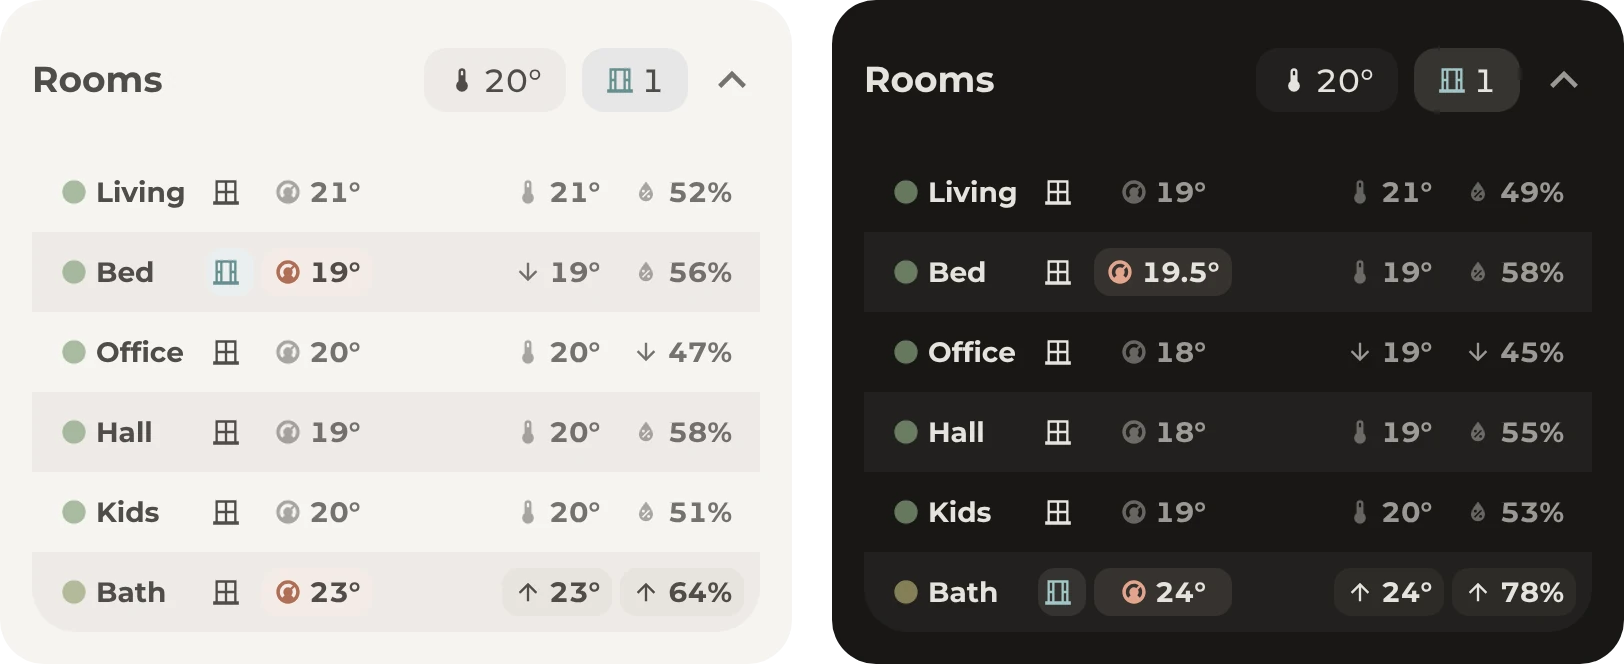
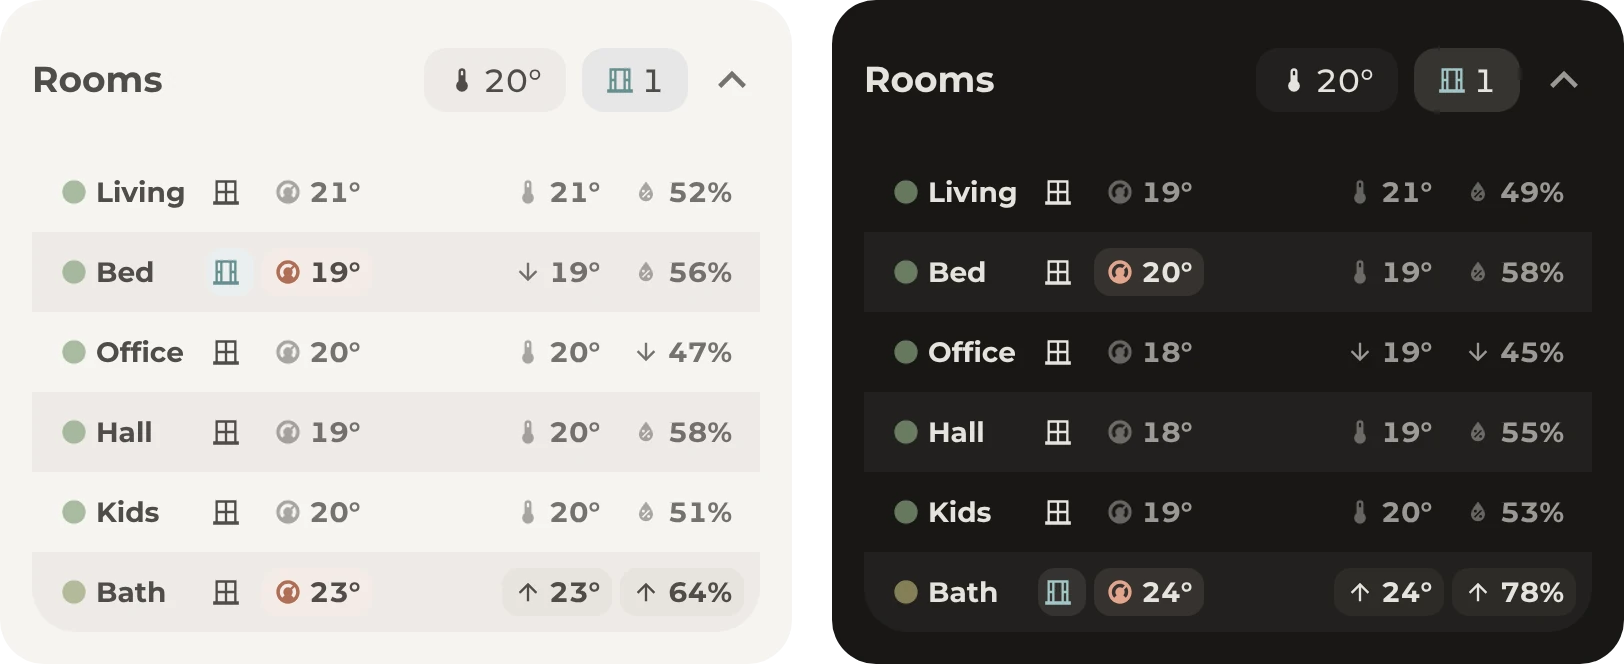
Images show one favorite on, nothing twice and short values, and scrolling tiles fit their names

diff --git a/.github/MAINTAINING.md b/.github/MAINTAINING.md
@@ -150,7 +150,8 @@ All text is written for people: short, plain English that sounds like a person w
 ## Images
 
 - All images follow one standard, so the gallery looks like one piece. Each image shows a part's light and dark mode side by side, with rounded corners and a transparent gap between them. The two halves show different things that are useful to see, such as an open mini pop-up in dark, another moment of the example home or other devices, never the same view twice. A card stands on its own, as in 2.0. The home view, the menu and each pop-up stand on a phone that faces the camera, always at a real phone's size, so the home view shows what fits on its screen, on a plain background a little lighter than the light page or a little darker than the dark one. The pictures in the demos, such as covers, are photos under CC0 or in the public domain: forests by day and the sea by night. Never a diagonal division.
-- The images show each part at its best and show off what it can do, because they are what people see first. Lists are full, such as six speakers or six rooms, added as the part's README says, and every row of a table has all its cells. A phone is always whole, and a menu or a mini pop-up stands where it opens on a real phone. The weather on the home view is a partly cloudy day, and `seed` keeps the weather card's sky the same in every shot.
+- The images show each part at its best and show off what it can do, because they are what people see first. Lists are full, such as six speakers or six rooms, added as the part's README says, and every row of a table has all its cells. A phone is always whole, and a menu or a mini pop-up stands where it opens on a real phone. The weather on the home view is gray by day, so the weather card adds little color to the page, and `seed` keeps the weather card's sky the same in every shot.
+- An image never shows the same thing twice, such as a cleaning vacuum in the notifications and in the favorites. The favorites are quick access first, so only the first favorite is on and the others wait for a tap. Values stay short and even, such as 20° instead of 19.5° for a thermostat and Playing instead of Bedroom as a state, and no name is cut off. Each image's scenario picks its favorites and states for this, and a change to a part keeps them.
 - The hero shows the maintainer's own dashboard, because it shows best how Origami looks in daily use. It gets more care than any other image.
 - Screenshots show the real theme, font, modules and cards. The hero comes from a real Home Assistant. `python3 .github/bench/images/make.py` makes the other images with the bench, from the example home's states in `.github/bench/images`, and frames them.
 - Before using a screenshot, look at it at full size and check the spacing against the rest of the dashboard. Measure gaps in the browser instead of guessing.

diff --git a/bubble_card/README.md b/bubble_card/README.md
@@ -1154,7 +1154,7 @@ The Tiles module turns a sub-buttons card into a grid of tiles, a row of tiles t
 
 <br>
 
-On the card, `origami_tiles: layout` is `grid` (the default) or `list`. A grid has 1 to 6 `columns`, 2 by default, or with `scroll: true` one row that scrolls sideways to the screen's edge, with each tile twice as wide as it is tall. A list has the card options `slim`, `dividers`, `sign`, `pending` and `background`, described below. All other keys go under each tile's own `origami_tiles` key.
+On the card, `origami_tiles: layout` is `grid` (the default) or `list`. A grid has 1 to 6 `columns`, 2 by default, or with `scroll: true` one row that scrolls sideways to the screen's edge, with the tiles as wide as the widest one, from twice to three times their height. A list has the card options `slim`, `dividers`, `sign`, `pending` and `background`, described below. All other keys go under each tile's own `origami_tiles` key.
 
 | Key | Default | Description |
 | --- | --- | --- |
